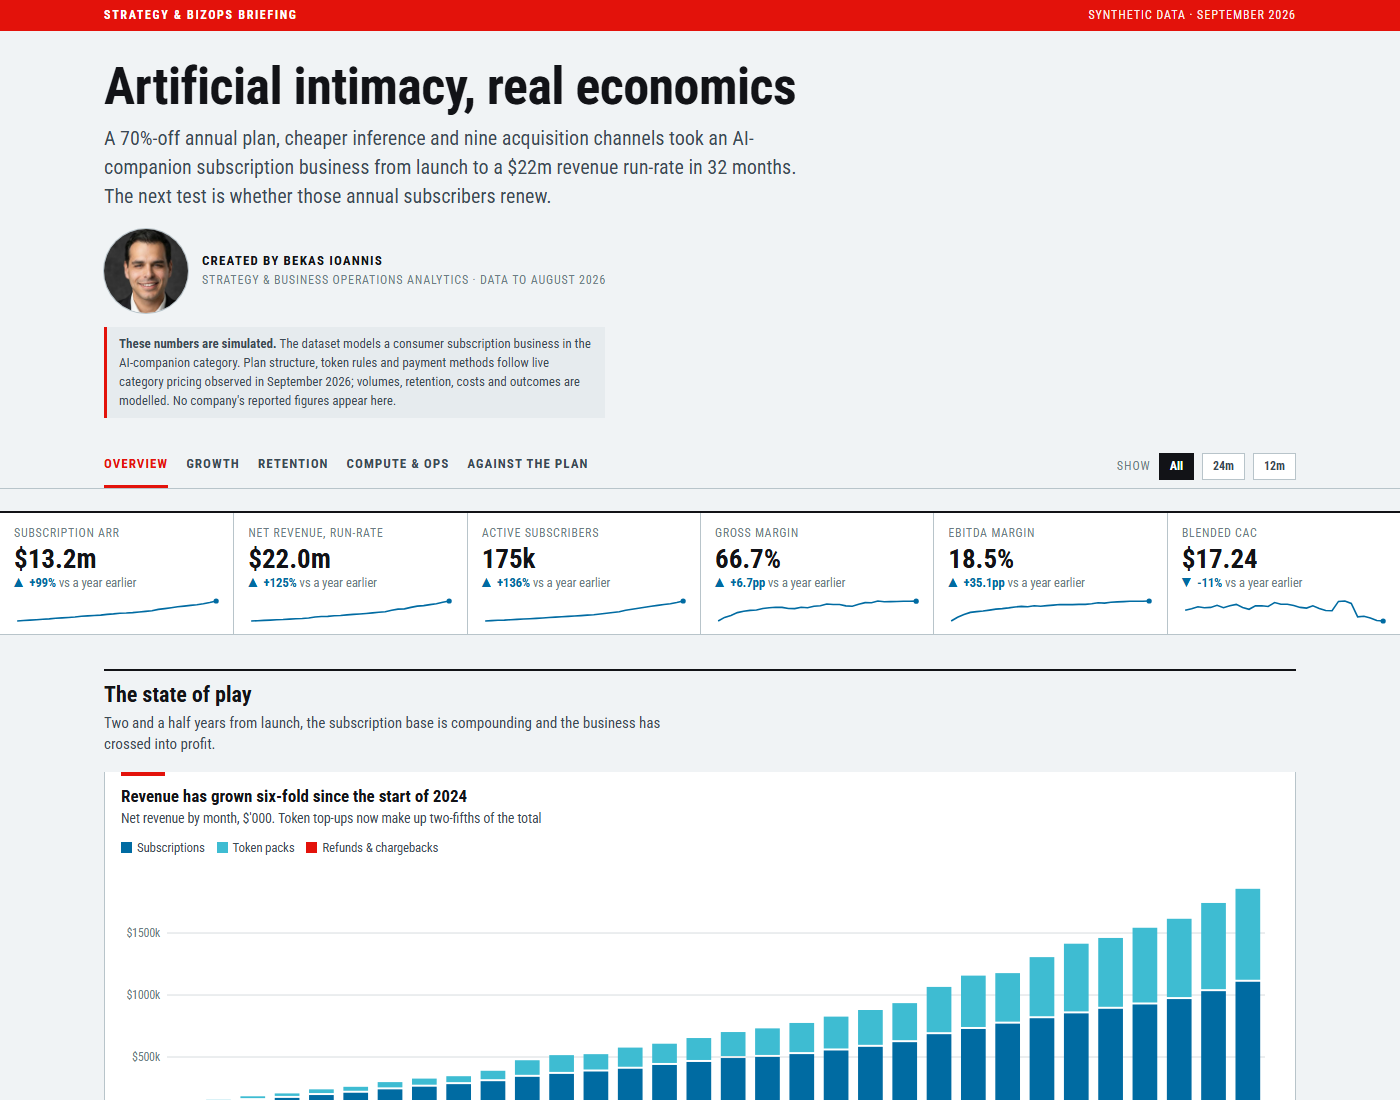
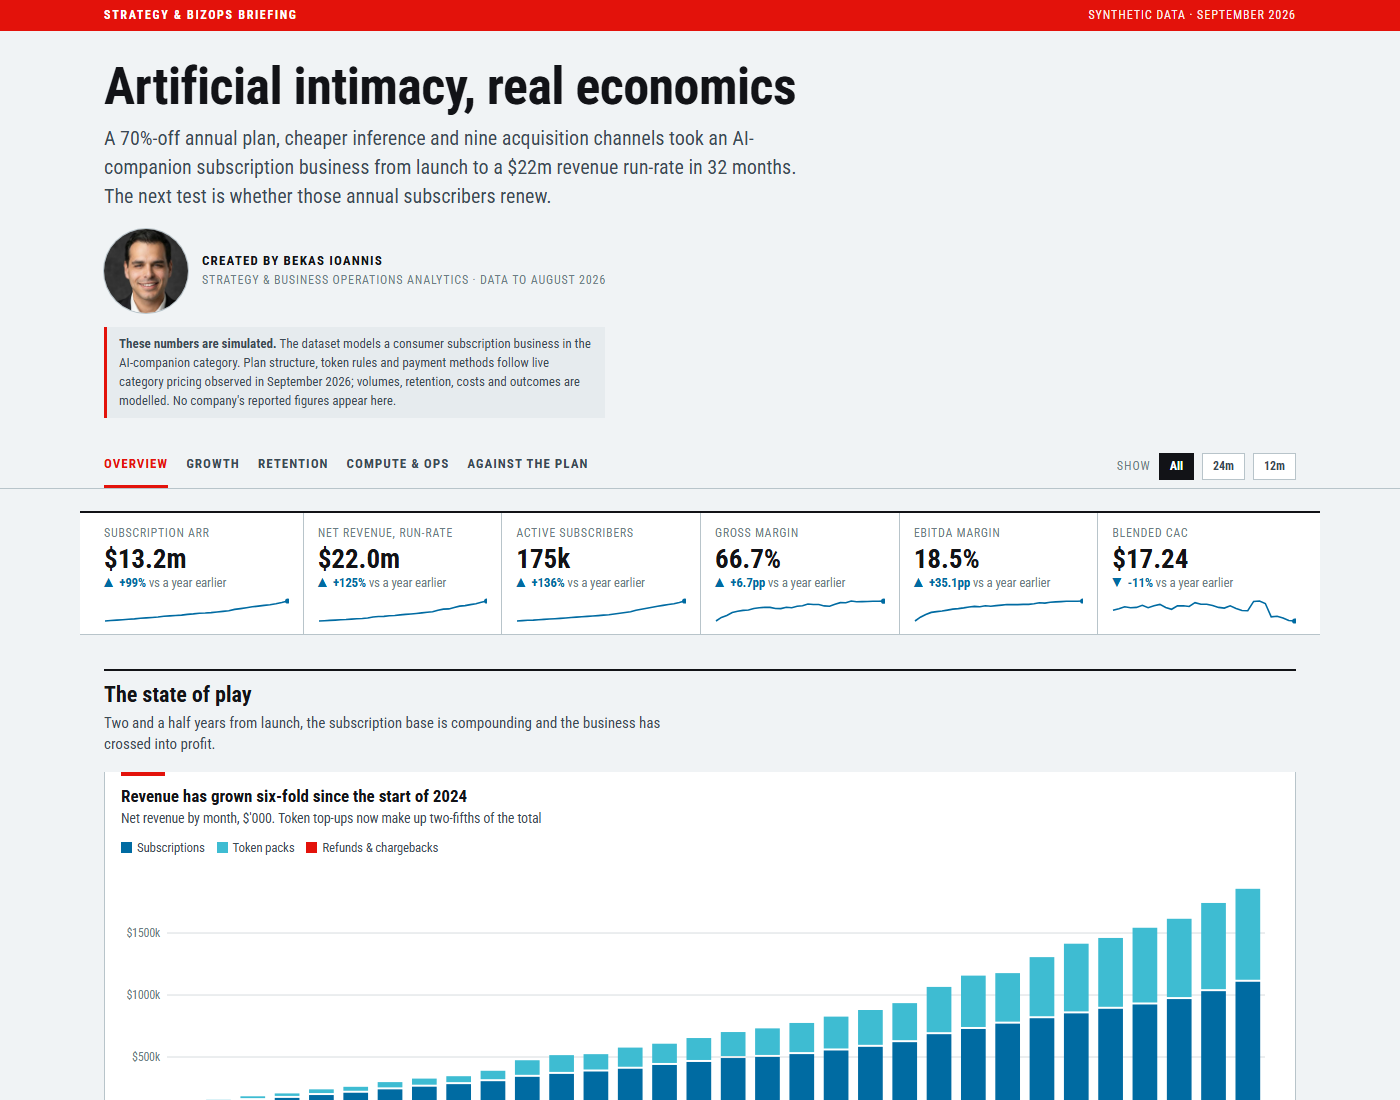
Align the KPI strip with the page's content column
The six headline tiles sat in a full-bleed band while the masthead, nav, cards
and footer are all constrained to the 1240px column, so on a wide screen the
strip ran edge to edge and its numbers did not line up with anything. The band
now matches the column and the tiles align with the section headings.

Changed region(s): [[0.0, 0.4636, 0.4607, 0.5873], [0.5529, 0.4636, 0.9521, 0.5564]]

diff --git a/assets/economist.css b/assets/economist.css
@@ -120,10 +120,14 @@ section { padding-top: 34px; scroll-margin-top: 58px; }
 svg { max-width: 100%; }
 
 /* ---------- KPI strip ---------- */
-.kpis { display: grid; grid-template-columns: repeat(6, 1fr); gap: 0; border-top: 2px solid var(--ink);
-        background: var(--surface); border-bottom: 1px solid var(--rule); margin-top: 22px; }
+.kpis {
+  max-width: var(--maxw); margin: 22px auto 0; padding: 0 24px;
+  background: var(--surface); border-top: 2px solid var(--ink); border-bottom: 1px solid var(--rule);
+}
+.kpis .inner { display: grid; grid-template-columns: repeat(6, 1fr); gap: 0; }
 .kpi { padding: 12px 14px 10px; border-left: 1px solid var(--rule); min-width: 0; }
-.kpi:first-child { border-left: none; }
+.kpi:first-child { border-left: none; padding-left: 0; }
+.kpi:last-child { padding-right: 0; }
 .kpi .label { font-size: 11.5px; text-transform: uppercase; letter-spacing: .08em; color: var(--muted); }
 .kpi .value { font-size: 27px; font-weight: 700; line-height: 1.1; margin-top: 2px; }
 .kpi .chg { font-size: 12.5px; font-weight: 700; }
@@ -166,12 +170,12 @@ footer {
 footer b { color: var(--ink-2); }
 
 @media (max-width: 1040px) {
-  .kpis { grid-template-columns: repeat(3, 1fr); }
+  .kpis .inner { grid-template-columns: repeat(3, 1fr); }
   .kpi:nth-child(4) { border-left: none; }
   .card, .card.third { grid-column: span 12; }
 }
 @media (max-width: 620px) {
-  .kpis { grid-template-columns: repeat(2, 1fr); }
+  .kpis .inner { grid-template-columns: repeat(2, 1fr); }
   .kpi:nth-child(odd) { border-left: none; }
   .kpi .value { font-size: 23px; }
   .topbar .inner { display: block; letter-spacing: .1em; font-size: 11px; }
@@ -180,7 +184,7 @@ footer b { color: var(--ink-2); }
   .byline-photo { width: 66px; height: 66px; }
   .nav a { font-size: 12px; }
   .nav ul { gap: 13px; }
-  main, .masthead, .nav .inner, .topbar .inner, footer { padding-left: 14px; padding-right: 14px; }
+  main, .masthead, .nav .inner, .topbar .inner, .kpis .inner, footer { padding-left: 14px; padding-right: 14px; }
 }
 @media print {
   .nav, .toggle { display: none; }

diff --git a/assets/dashboard.js b/assets/dashboard.js
@@ -93,7 +93,7 @@
 
   /* ---------- KPI strip ---------- */
   function kpis() {
-    const wrap = document.getElementById("kpis");
+    const wrap = h("div", { class: "inner" }, document.getElementById("kpis"));
     D.kpis.forEach((k) => {
       const box = h("div", { class: "kpi" }, wrap);
       h("div", { class: "label", text: k.label }, box);
